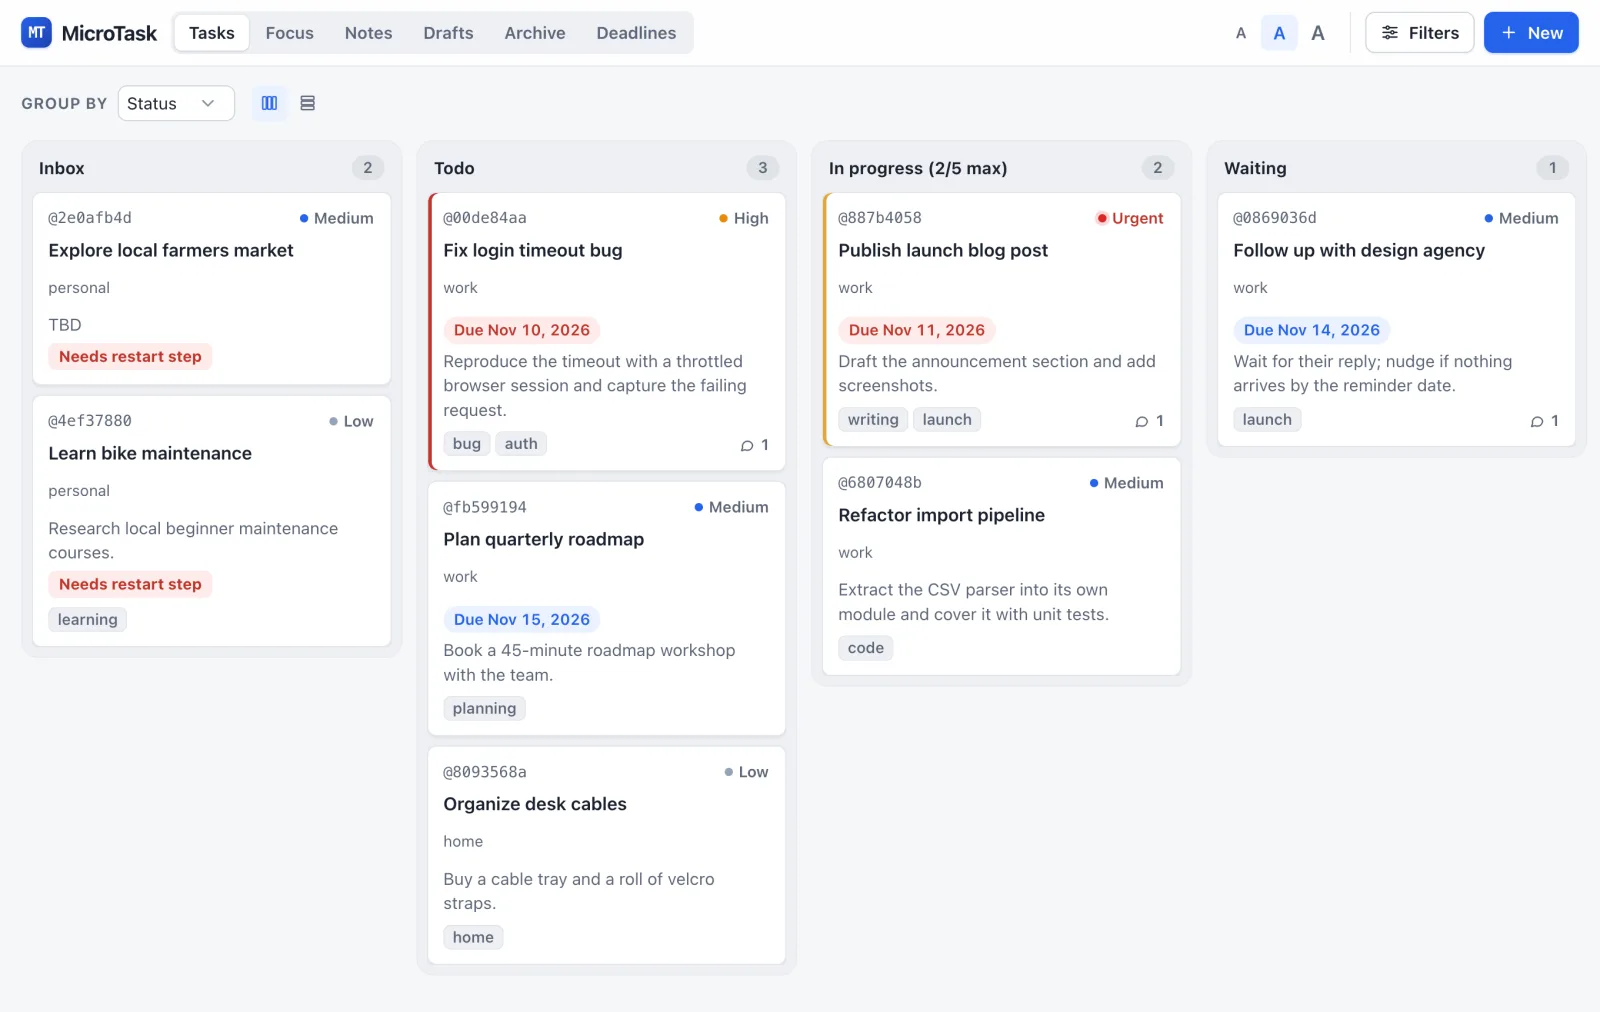
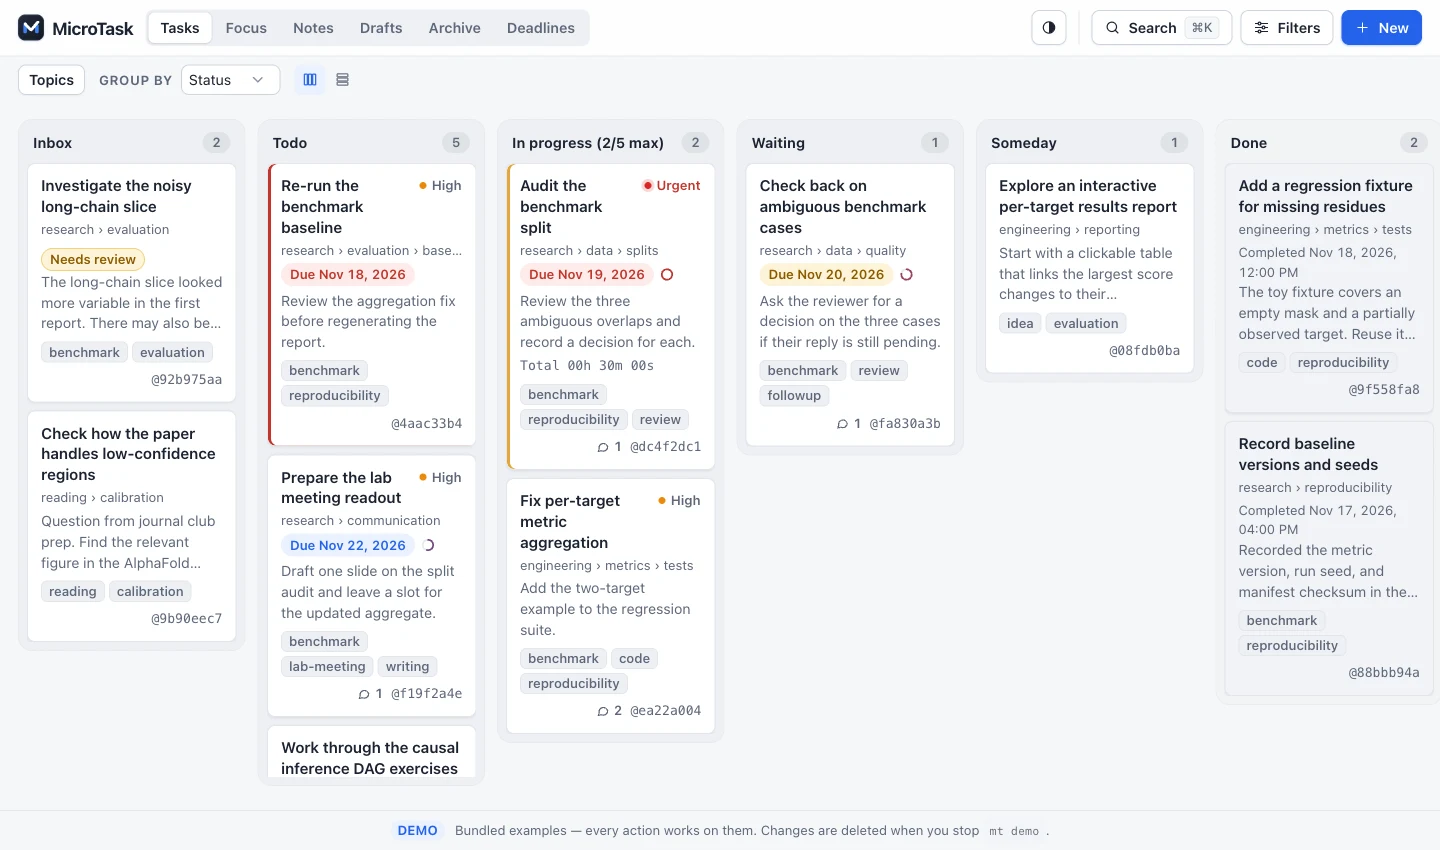
Refresh documentation screenshots and terminal demo

diff --git a/README.md b/README.md
@@ -4,13 +4,11 @@ A task and notes manager for you and your AI agents. Each task and note is a
 Markdown file in a folder you own, which you can keep in a private Git
 repository.
 
-<p align="center">
-  <img src="docs/images/demo.gif" width="720" alt="Adding a task with mt, listing active tasks, asking mt focus what to do next, completing the task, and printing its Markdown file">
-</p>
-
 You work with the `mt` command in a terminal. `mt web` opens a dashboard in
 your browser, served from your own machine. Your editor and your agents read
 and change the same files.
+
+![Microtask dashboard showing example tasks grouped by status](docs/images/board.webp)
 
 - Each card is one Markdown file, readable in any editor.
 - `mt` needs Bash and Python 3, which macOS and Linux already have. There is no
@@ -44,6 +42,10 @@ mt list
 mt move @4e91a7c2 doing      # use the @reference that mt list prints
 mt done @4e91a7c2
 ```
+
+<p align="center">
+  <img src="docs/images/demo.gif" width="720" alt="Adding and listing a task with mt, choosing it with mt focus, moving it to In progress, adding a comment, completing it, and viewing the Markdown file">
+</p>
 
 To try microtask with example cards first, run `mt demo`. It opens the
 dashboard on a temporary workspace and deletes it when you stop it.
@@ -119,7 +121,7 @@ checklists, code, math and images. See [Card files](docs/cards.md).
 `mt web` opens a board in your browser and stops when you press Ctrl+C. You can
 edit cards, comment, track time, and paste images there.
 
-![The microtask dashboard: a board of tasks grouped by status](docs/images/board.webp)
+![An open task showing its Markdown content, next action, and properties](docs/images/card.webp)
 
 ## Working with AI agents
 
@@ -133,12 +135,8 @@ mt run claude      # or: mt run codex, mt run agy
 Then ask in plain language:
 
 - *"Add a task to renew my passport before March, high priority."*
-- *"Triage my inbox."*
+- *"Triage my inbox. Show me the proposed changes before applying them."*
 - *"What should I work on next? Start it and keep notes in the card."*
-
-<p align="center">
-  <img src="docs/images/triage.gif" width="900" alt="Running mt run claude, asking Claude Code to triage the inbox, approving its proposed titles, statuses, priorities and dates, and listing the organized tasks">
-</p>
 
 The agent follows [AGENTS.md](AGENTS.md) and the
 [microtask skill](.agents/skills/microtask/SKILL.md). It shows new cards for

diff --git a/CONTRIBUTING.md b/CONTRIBUTING.md
@@ -90,12 +90,15 @@ widths, including hover, focus, and disabled states; fix visual defects and
 save a screenshot. Passing markup or behavior tests alone does not establish
 visual correctness.
 
-## README demo
+## Documentation screenshots and demo
 
-`docs/images/demo.gif` is recorded with [VHS](https://github.com/charmbracelet/vhs)
-from `docs/demo/demo.tape`, against a throwaway copy of the example cards. After
-changing CLI output, re-record it from the repository root with
-`vhs docs/demo/demo.tape`.
+After a dashboard change, run `./mt demo` from the repository root and capture
+the board, an open task, and the Zen editor in Split view as WebP files in
+`docs/images/`. The demo uses the bundled example cards.
+
+After changing CLI output, re-record `docs/images/demo.gif` from the repository
+root with [VHS](https://github.com/charmbracelet/vhs) using
+`vhs docs/demo/demo.tape`. The tape creates its own temporary workspace.
 
 ## Skills
 

diff --git a/docs/guide.md b/docs/guide.md
@@ -200,15 +200,16 @@ mt list                               # only release cards
 unset MT_PROJECT
 ```
 
-![A task open in the dashboard, with its Markdown content and properties](images/card.webp)
-
 ## Drafts
 
 Drafts are unfinished new cards kept in `drafts/`. They stay out of lists,
 search, and focus until you create them. The capture composer saves drafts as
 you type (and can expand into a full-screen **Zen mode** with `Write`, `Split`,
-and `Preview` views via `⤢` or `Cmd/Ctrl+Shift+F`), and the CLI works on the
-same files:
+and `Preview` views via `⤢` or `Cmd/Ctrl+Shift+F`).
+
+![A note draft in Zen mode with Markdown on the left and a live preview on the right](images/zen.webp)
+
+The CLI works on the same drafts:
 
 ```sh
 mt draft list
